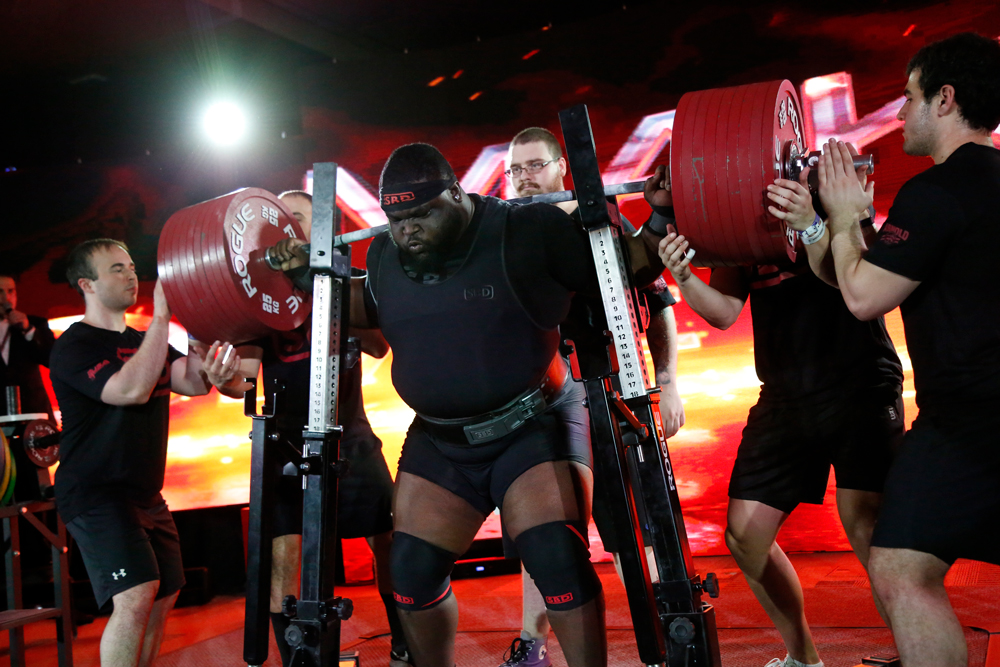
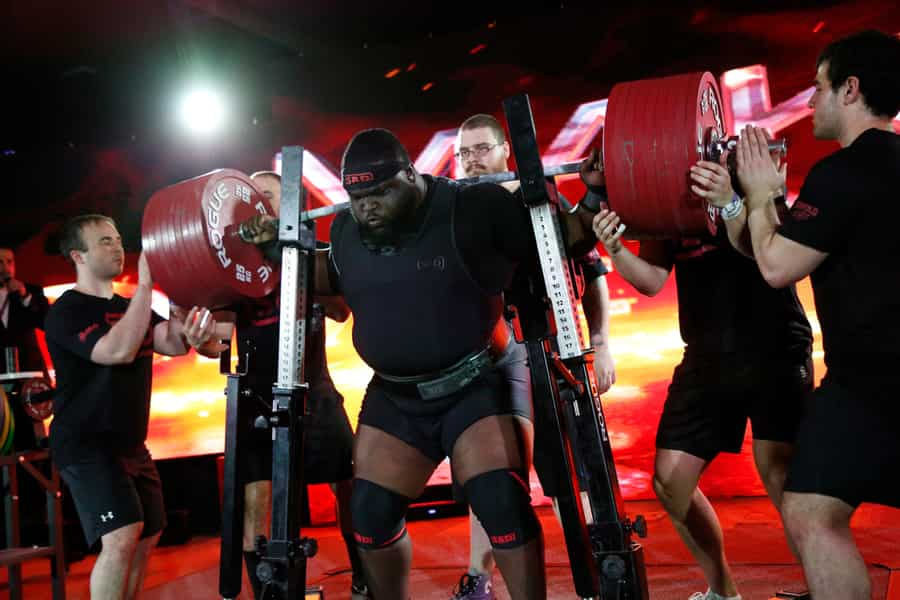
Compress images

diff --git a/index.html b/index.html
@@ -50,7 +50,7 @@
       <div class="lift">
         <div class="lift-img-container">
           <div class="lift-img">
-            <img src="./assets/images/deadlift.png" />
+            <img src="./assets/images/deadlift.jpg" />
           </div>
           <p>Ray williams breaking the world record with 490kg</p>
         </div>
